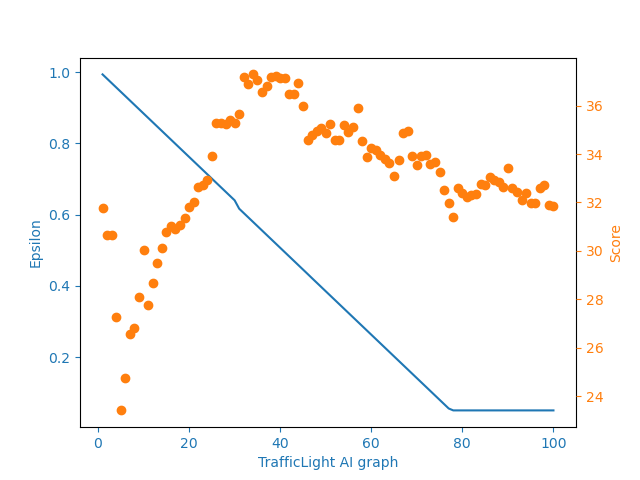
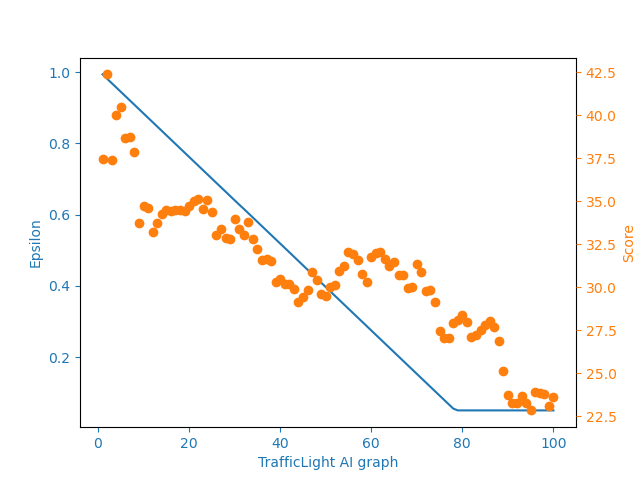
made score also print when not controlled by AI

diff --git a/Assets/Scripts/New Simulation/SimulationController.cs b/Assets/Scripts/New Simulation/SimulationController.cs
@@ -25,7 +25,7 @@ public class SimulationController : MonoBehaviour
     SimulationAPI.Simulator simulator;
 
     public bool runAtSetSpeed = true;
-    public bool paused = false;
+    [HideInInspector] public bool paused = false;
     public bool doVisualize = true;
 
     public TextMeshProUGUI tpsCounter, MSPTCounter;
@@ -41,6 +41,7 @@ public class SimulationController : MonoBehaviour
     private List<List<int>> previousActions = new List<List<int>> { new List<int>(), new List<int>() }; // [traficLight, ...allActions]
     private string SERVER_URL0 = "http://localhost:8000/";
     private string SERVER_URL1 = "http://localhost:8001/";
+    private float totalScore = 0.0f;
 
     void Start()
     {
@@ -195,6 +196,12 @@ public class SimulationController : MonoBehaviour
                     ResetSimulation(this.seed + 1);
                 }
                 // List<float> debugValues = qAgent.Step(simulator);
+            }
+            if (!isAIControlled && this.stepCount % 20 == 0)
+            {
+                float currentScore = (simulator.intersections[0].CalculateReward() + simulator.intersections[1].CalculateReward()) / 2;
+                totalScore += currentScore;
+                print("current Score: " + currentScore.ToString() + " Total: " + totalScore.ToString());
             }
             simulator.Step(this.timeStepSize, isAIControlled);
         }
